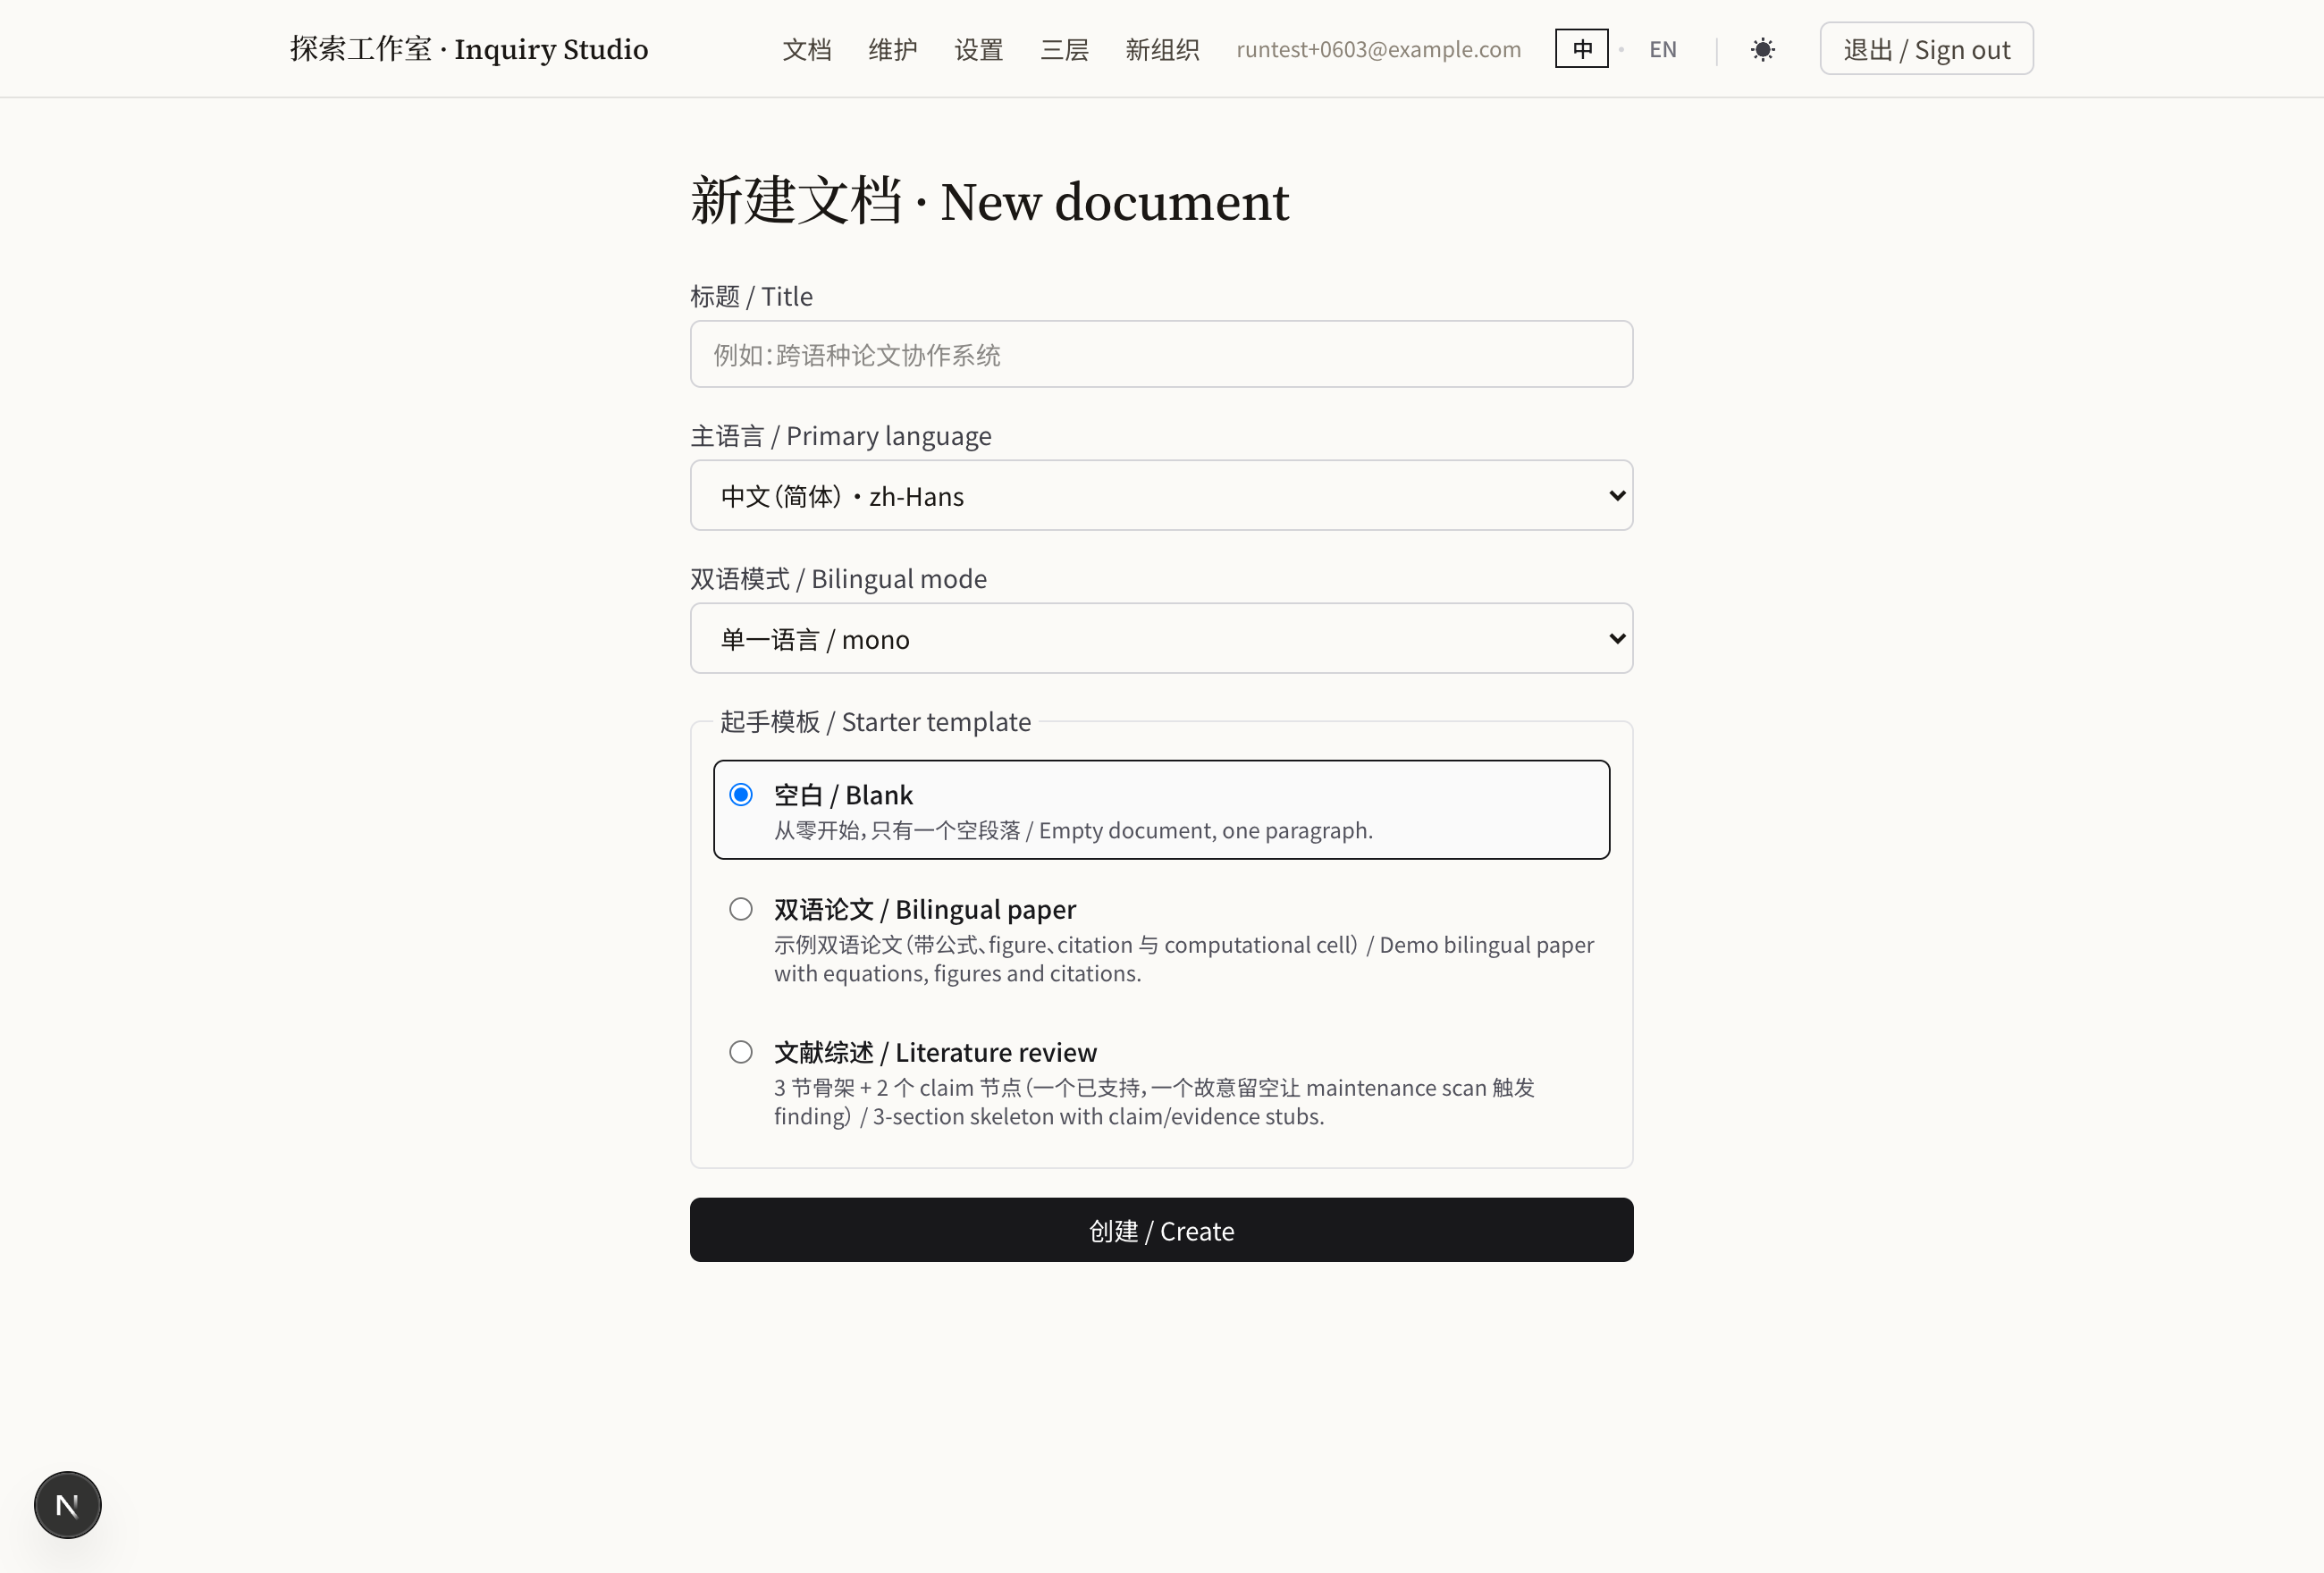
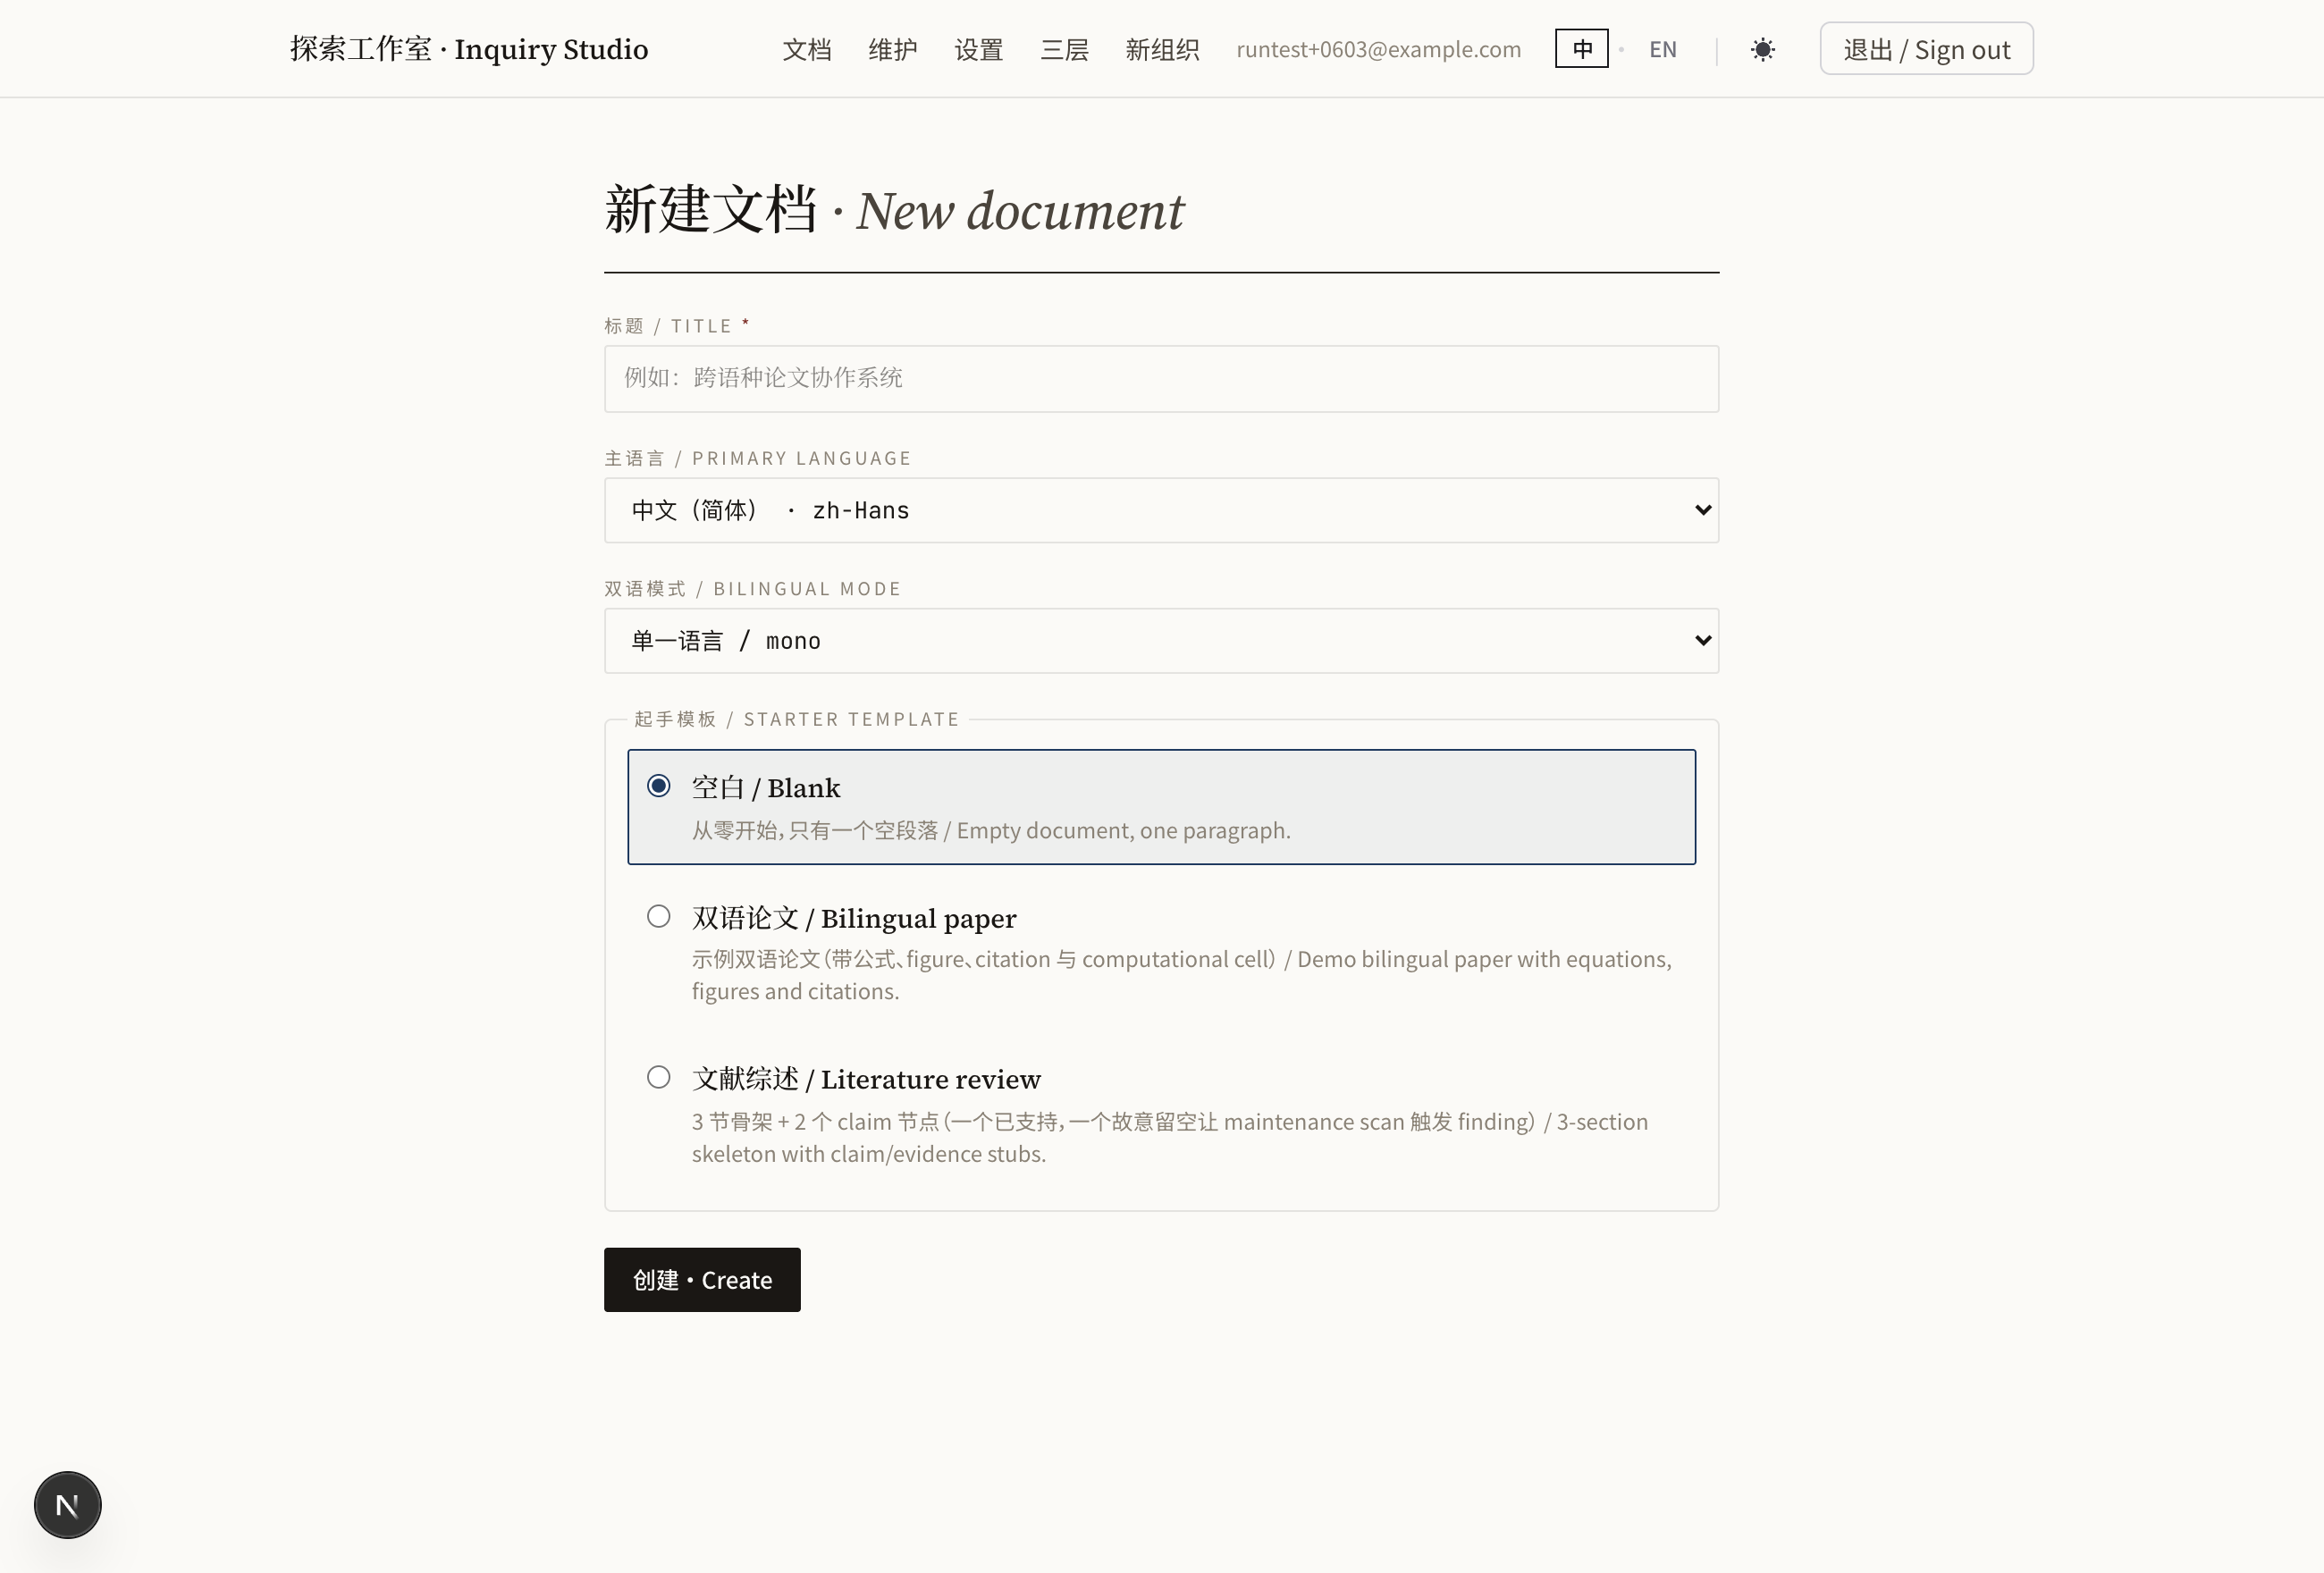
P5(design-v2 Phase 3a): 表单 sweep — docs/new(修 gate 违规) + orgs/new
采用 Phase 1 design-system 原语，消除 inline FIELD_STYLE 重复 + 修 docs/new 现存 commit-gate 违规：
- docs/new：bg-zinc-900/rounded-md/border-zinc-300/bg-zinc-50/border-red-* 全清 → PageShell/PageHeader/Field/TextInput/Select/Button + token 化 radio fieldset（选中态用 accent-ink 边 + accent-ink-wash 暖填）+ form-banner-error
- orgs/new：删本地 FIELD_STYLE → PageShell/PageHeader/Field/TextInput/Button/form-banner-error
- globals.css 加 .template-* + .form-banner-error（token 驱动零 hex）
- public/screens/docs-new.png 更新为重构后表单（reject #16 真截图，不留旧版）

gate：pnpm web:typecheck PASS · commit-gate grep(added lines, palette+blur) clean · docs/new & orgs/new 起服务渲染验证(零 page error)。
注：settings/models / settings/plugins / 公开页 / triadic(P4) / 一致性(P5) 留待续。

Changed region(s): [[0.2492, 0.0938, 0.7165, 0.8438]]

diff --git a/apps/web/src/app/(app)/docs/new/page.tsx b/apps/web/src/app/(app)/docs/new/page.tsx
@@ -8,6 +8,14 @@ import {
   materialiseRoleBundle,
 } from '@collaborationtool/permissions';
 
+import {
+  Button,
+  Field,
+  PageHeader,
+  PageShell,
+  Select,
+  TextInput,
+} from '@/components/design';
 import { auth } from '@/lib/auth';
 import { getDb } from '@/lib/db';
 import { getPrincipalIdForUser } from '@/lib/principal';
@@ -84,83 +92,65 @@ export default function NewDocumentPage({
   searchParams: Promise<{ error?: string }>;
 }) {
   return (
-    <div className="mx-auto max-w-xl px-6 py-10">
-      <h1 className="mb-6 text-3xl font-medium">新建文档 · New document</h1>
+    <PageShell width="prose">
+      <PageHeader title="新建文档" titleEn="New document" />
 
-      <form action={createDocument} className="flex flex-col gap-4">
+      <form action={createDocument} className="flex flex-col gap-5">
         <ErrorBanner searchParams={searchParams} />
 
-        <label className="flex flex-col gap-1">
-          <span className="text-sm text-zinc-700">标题 / Title</span>
-          <input
+        <Field label="标题 / Title" htmlFor="title" required>
+          <TextInput
+            id="title"
             name="title"
+            tone="serif"
             required
             maxLength={200}
             placeholder="例如：跨语种论文协作系统"
-            className="rounded-md border border-zinc-300 px-3 py-2 text-sm focus:border-zinc-900 focus:outline-none"
           />
-        </label>
+        </Field>
 
-        <label className="flex flex-col gap-1">
-          <span className="text-sm text-zinc-700">主语言 / Primary language</span>
-          <select
-            name="language"
-            defaultValue="zh-Hans"
-            className="rounded-md border border-zinc-300 px-3 py-2 text-sm focus:border-zinc-900 focus:outline-none"
-          >
+        <Field label="主语言 / Primary language" htmlFor="language">
+          <Select id="language" name="language" defaultValue="zh-Hans">
             <option value="zh-Hans">中文（简体） · zh-Hans</option>
             <option value="zh-Hant">中文（繁体） · zh-Hant</option>
             <option value="en">English · en</option>
-          </select>
-        </label>
+          </Select>
+        </Field>
 
-        <label className="flex flex-col gap-1">
-          <span className="text-sm text-zinc-700">双语模式 / Bilingual mode</span>
-          <select
-            name="bilingualMode"
-            defaultValue="mono"
-            className="rounded-md border border-zinc-300 px-3 py-2 text-sm focus:border-zinc-900 focus:outline-none"
-          >
+        <Field label="双语模式 / Bilingual mode" htmlFor="bilingualMode">
+          <Select id="bilingualMode" name="bilingualMode" defaultValue="mono">
             <option value="mono">单一语言 / mono</option>
             <option value="parallel">中英对照 / parallel</option>
             <option value="mixed">中英混排 / mixed</option>
-          </select>
-        </label>
+          </Select>
+        </Field>
 
-        <fieldset className="flex flex-col gap-2 rounded-md border border-zinc-200 p-3">
-          <legend className="px-1 text-sm text-zinc-700">
-            起手模板 / Starter template
-          </legend>
-          {DOC_TEMPLATES.map((tpl, idx) => (
-            <label
-              key={tpl.id}
-              className="flex cursor-pointer items-start gap-3 rounded-md border border-transparent p-2 hover:bg-zinc-50 has-[:checked]:border-zinc-900 has-[:checked]:bg-zinc-50"
-            >
-              <input
-                type="radio"
-                name="template"
-                value={tpl.id}
-                defaultChecked={idx === 0}
-                className="mt-1"
-              />
-              <span className="flex flex-col gap-0.5">
-                <span className="text-sm font-medium text-zinc-900">
-                  {tpl.label}
+        <fieldset className="template-fieldset">
+          <legend className="label-cap">起手模板 / Starter template</legend>
+          <div className="flex flex-col gap-2">
+            {DOC_TEMPLATES.map((tpl, idx) => (
+              <label key={tpl.id} className="template-option">
+                <input
+                  type="radio"
+                  name="template"
+                  value={tpl.id}
+                  defaultChecked={idx === 0}
+                  className="template-radio"
+                />
+                <span className="flex flex-col gap-0.5">
+                  <span className="template-option-label">{tpl.label}</span>
+                  <span className="template-option-desc">{tpl.description}</span>
                 </span>
-                <span className="text-xs text-zinc-600">{tpl.description}</span>
-              </span>
-            </label>
-          ))}
+              </label>
+            ))}
+          </div>
         </fieldset>
 
-        <button
-          type="submit"
-          className="rounded-md bg-zinc-900 px-4 py-2 text-sm text-white hover:bg-zinc-800"
-        >
-          创建 / Create
-        </button>
+        <Button variant="primary" type="submit" className="self-start">
+          创建 · Create
+        </Button>
       </form>
-    </div>
+    </PageShell>
   );
 }
 
@@ -172,10 +162,8 @@ async function ErrorBanner({
   const { error } = await searchParams;
   if (!error) return null;
   return (
-    <p className="rounded-md border border-red-200 bg-red-50 p-3 text-sm text-red-800">
-      {error === 'title-required'
-        ? '请填写标题。'
-        : `Error: ${error}`}
+    <p className="form-banner-error" role="alert">
+      {error === 'title-required' ? '请填写标题 · Title is required.' : `Error: ${error}`}
     </p>
   );
 }

diff --git a/apps/web/src/app/(app)/orgs/new/page.tsx b/apps/web/src/app/(app)/orgs/new/page.tsx
@@ -1,25 +1,21 @@
 'use client';
 
-// Phase 4 W10.7 — refactored to Design.md tokens. The previous form used
-// `bg-zinc-900` submit + `rounded-md border-zinc-300` inputs. We now go
-// through the SoT `<Button>` and inline editorial input styles so this
-// surface matches Design.md §6.5 (orgs/new shares chrome with docs list).
+// Design.md v2 Phase 3 — adopts the shared design-system primitives
+// (PageShell / PageHeader / Field / TextInput / form-banner-error) in place
+// of the local FIELD_STYLE const. orgs/new shares chrome with docs list
+// (Design.md §6.5).
 
 import { useRouter } from 'next/navigation';
 import { useState } from 'react';
 
-import { Button, HairlineRule } from '@/components/design';
+import {
+  Button,
+  Field,
+  PageHeader,
+  PageShell,
+  TextInput,
+} from '@/components/design';
 import { authClient } from '@/lib/auth-client';
-
-const FIELD_STYLE = {
-  fontFamily: 'var(--font-mono)',
-  fontSize: '13px',
-  padding: '8px 12px',
-  background: 'var(--color-paper)',
-  color: 'var(--color-ink)',
-  border: '1px solid var(--color-hairline)',
-  borderRadius: 'var(--radius-1)',
-} as const;
 
 export default function NewOrgPage() {
   const router = useRouter();
@@ -62,67 +58,31 @@ export default function NewOrgPage() {
   }
 
   return (
-    <div
-      className="mx-auto max-w-xl px-6 py-10"
-      style={{ background: 'var(--color-paper)', color: 'var(--color-ink)' }}
-    >
-      <header className="mb-6">
-        <h1
-          style={{
-            fontFamily: 'var(--font-serif)',
-            fontSize: '30px',
-            fontWeight: 500,
-            letterSpacing: '-0.005em',
-          }}
-        >
-          新组织 · New organization
-        </h1>
-        <HairlineRule className="mt-3" />
-      </header>
-      <form onSubmit={onSubmit} className="flex flex-col gap-4">
-        <label className="flex flex-col gap-1">
-          <span
-            className="label-cap"
-            style={{ color: 'var(--color-ink-3)' }}
-          >
-            NAME · 名称
-          </span>
-          <input
+    <PageShell width="prose">
+      <PageHeader title="新组织" titleEn="New organization" />
+      <form onSubmit={onSubmit} className="flex flex-col gap-5">
+        <Field label="NAME · 名称" htmlFor="org-name" required>
+          <TextInput
+            id="org-name"
             value={name}
             onChange={(e) => setName(e.target.value)}
             required
-            style={FIELD_STYLE}
           />
-        </label>
-        <label className="flex flex-col gap-1">
-          <span
-            className="label-cap"
-            style={{ color: 'var(--color-ink-3)' }}
-          >
-            SLUG
-          </span>
-          <input
+        </Field>
+        <Field label="SLUG" htmlFor="org-slug" required>
+          <TextInput
+            id="org-slug"
             value={slug}
             onChange={(e) => setSlug(e.target.value)}
             required
             pattern="[a-z0-9-]+"
-            style={FIELD_STYLE}
           />
-        </label>
-        {error && (
-          <p
-            role="alert"
-            style={{
-              borderLeft: '2px solid var(--color-accent-ox)',
-              paddingLeft: '10px',
-              fontStyle: 'italic',
-              color: 'var(--color-accent-ox)',
-              fontSize: '13px',
-            }}
-          >
+        </Field>
+        {error ? (
+          <p className="form-banner-error" role="alert">
             {error}
           </p>
-        )}
+        ) : null}
         <Button
           variant="primary"
           size="md"
@@ -133,6 +93,6 @@ export default function NewOrgPage() {
           {pending ? '...' : '创建 · Create'}
         </Button>
       </form>
-    </div>
+    </PageShell>
   );
 }

diff --git a/apps/web/src/app/globals.css b/apps/web/src/app/globals.css
@@ -535,6 +535,61 @@ h1 {
   margin-top: 4px;
 }
 
+/* Template radio fieldset (docs/new) + form error banner — token-driven. */
+.template-fieldset {
+  display: flex;
+  flex-direction: column;
+  gap: 8px;
+  padding: 12px;
+  border: 1px solid var(--color-hairline);
+  border-radius: var(--radius-2);
+}
+.template-fieldset legend {
+  padding: 0 4px;
+}
+.template-option {
+  display: flex;
+  align-items: flex-start;
+  gap: 12px;
+  padding: 10px;
+  border: 1px solid transparent;
+  border-radius: var(--radius-1);
+  cursor: pointer;
+  transition: background-color var(--motion-fast) var(--ease-out);
+}
+.template-option:hover {
+  background: var(--color-paper-2);
+}
+.template-option:has(.template-radio:checked) {
+  border-color: var(--color-accent-ink);
+  background: var(--color-accent-ink-wash);
+}
+.template-radio {
+  margin-top: 3px;
+  accent-color: var(--color-accent-ink);
+}
+.template-option-label {
+  font-family: var(--font-serif);
+  font-size: 15px;
+  font-weight: 500;
+  color: var(--color-ink);
+}
+.template-option-desc {
+  font-family: var(--font-sans);
+  font-size: 12px;
+  line-height: 1.5;
+  color: var(--color-ink-3);
+}
+.form-banner-error {
+  margin: 0;
+  padding: 10px 12px;
+  border-left: 2px solid var(--color-accent-ox);
+  background: var(--color-accent-ox-wash);
+  font-family: var(--font-sans);
+  font-size: 13px;
+  color: var(--color-accent-ox);
+}
+
 /* Editorial buttons — primary (ink fill) + ghost (pencil border) +
    link (underlined inline anchor). No transitions on background blurs;
    transitions on color/border only. Sizes (sm/md/lg) override height +